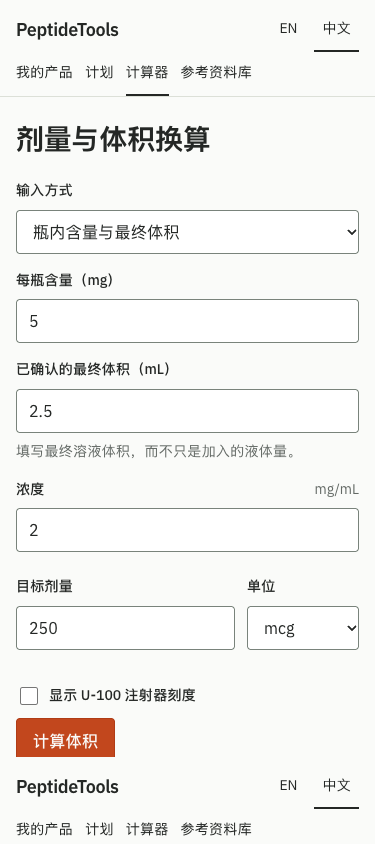
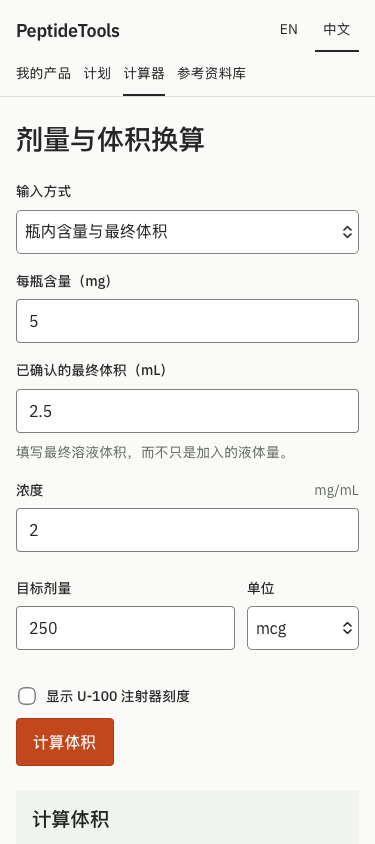
fix: guard tool submissions until scripts are ready

diff --git a/tests/e2e/calculation-workflow.spec.ts b/tests/e2e/calculation-workflow.spec.ts
@@ -143,3 +143,34 @@ test('a revised blend never silently reuses an ingredient index from the old lab
   await expect(page.locator('#calculator-error')).toContainText('Choose the ingredient');
   await page.locator('#calculation-basis').selectOption('0');await page.getByRole('button',{name:'Calculate volume',exact:true}).click();await expect(page.locator('#result-volume')).toHaveText('0.1');
 });
+
+
+test('failed modules cannot submit calculator, label or planner inputs through a native GET', async ({ page }) => {
+  const leakedKeys: string[][] = [];
+  await page.route('**/*', route => {
+    const request = route.request();
+    if (request.resourceType() === 'script') return route.abort();
+    if (request.resourceType() === 'document' && new URL(request.url()).search) { leakedKeys.push([...new URL(request.url()).searchParams.keys()]); return route.abort(); }
+    return route.continue();
+  });
+  for (const [path, field] of [['/calculator', '#dose'], ['/products/new', '#product-name'], ['/planner', '#protocol-name']] as const) {
+    await page.goto(path); await page.locator(field).fill('123');
+    for (const button of await page.locator('form button[type="submit"]').all()) await expect(button).toBeDisabled();
+    await page.locator(field).press('Enter'); await expect(page).toHaveURL(new RegExp(path+'$'));
+  }
+  expect(leakedKeys).toEqual([]);
+});
+
+test('submit stays disabled during module loading, then calculation works with the entered values', async ({ page }) => {
+  let release!: () => void; const gate = new Promise<void>(resolve => release = resolve);
+  await page.route('**/*', async route => { if (route.request().resourceType() === 'script') await gate; await route.continue(); });
+  try {
+    await page.goto('/calculator', { waitUntil: 'commit' });
+    await page.locator('#concentration').fill('2'); await page.locator('#dose').fill('250');
+    await expect(page.getByRole('button', { name: 'Calculate volume', exact: true })).toBeDisabled();
+    await page.locator('#dose').press('Enter'); await expect(page).toHaveURL(/\/calculator$/);
+    release(); await expect(page.locator('#calculator-form')).toHaveAttribute('data-ready', 'true');
+    await page.getByRole('button', { name: 'Calculate volume', exact: true }).click();
+    await expect(page.locator('#result-volume')).toHaveText('0.125');
+  } finally { release(); }
+});

diff --git a/src/scripts/calculator.ts b/src/scripts/calculator.ts
@@ -51,8 +51,7 @@ export function initCalculator() {
       blocked = true; document.querySelector('#calculation-product-name')!.textContent = ui('Product unavailable');
       document.querySelector('#calculation-product-note')!.textContent = uiError(caught);
     }
-    (form.querySelector('button[type="submit"]') as HTMLButtonElement).disabled = blocked;
-  }
+    }
   if (hash.has('calculation') && !saved) { blocked = true; error.textContent = ui('This saved calculation is no longer available. Open the calculator to start again.'); }
   const source = initConcentrationInput('calculator-source', 'calculator-source-vial-amount', 'concentration', !!productId);
   if (saved) {
@@ -64,7 +63,6 @@ export function initCalculator() {
     document.querySelector<HTMLElement>('#calculation-review')!.hidden = !product || product.revision === saved.productRevision;
   } else if (product) name.value = product.name;
   source.sync();
-  (form.querySelector('button[type="submit"]') as HTMLButtonElement).disabled = blocked;
   const draft = takeLanguageDraft();
   if (draft) for (const name of ['concentration', 'dose', 'unit', 'useSyringe', 'capacity', 'increment', 'concentrationMode', 'vialAmount', 'finalVolume']) {
     if (productId && ['concentration', 'concentrationMode', 'vialAmount', 'finalVolume'].includes(name)) continue;
@@ -180,4 +178,7 @@ export function initCalculator() {
   });
   name.addEventListener('input', () => { storageStatus.textContent = ''; });
   renderSaved();
+  (form.querySelector('button[type="submit"]') as HTMLButtonElement).disabled = blocked;
+  (document.querySelector('#save-calculation-form button[type="submit"]') as HTMLButtonElement).disabled = false;
+  form.dataset.ready = 'true';
 }

diff --git a/src/scripts/product-entry.ts b/src/scripts/product-entry.ts
@@ -100,7 +100,6 @@ export function initProductEntry() {
   }
   concentrationInput('product-source', 'product-amount', 'product-concentration');
   showType(); showStep(draft?.step === 'label' || (!draft && editing) ? 'label' : 'name');
-  el<HTMLButtonElement>('product-save').disabled = blocked;
   el('product-continue').addEventListener('click', continueToLabel);
   el('product-back').addEventListener('click', () => showStep('name', true));
   el('product-add-component').addEventListener('click', () => { addComponent(); showType(); field('concentrationVerified').checked = false; trackStart('product_entry_start', { operation: editing ? 'update' : 'create' }); components.lastElementChild?.querySelector<HTMLInputElement>('input')?.focus(); });
@@ -143,4 +142,7 @@ export function initProductEntry() {
     leaving = true; el<HTMLButtonElement>('product-save').disabled = true;
     trackThenNavigate('product_saved', { product_type: product.kind, operation: editing ? 'update' : 'create' }, `${localePath('/products', browserLocale())}#product=${encodeURIComponent(product.id)}`);
   });
+  el<HTMLButtonElement>('product-save').disabled = blocked;
+  el<HTMLButtonElement>('product-continue').disabled = false;
+  form.dataset.ready = 'true';
 }

diff --git a/src/styles/app.css b/src/styles/app.css
@@ -12,6 +12,7 @@
 /* Hallmark · reworded "Saved in this browser" to "Saved schedules" · name the saved object rather than repeat its storage location. */
 /* Hallmark · dropped "Your data" · backup and restore controls already carry explicit action labels. */
 /* Hallmark · finish-review: subagent ship; bad stitched phone evidence recaptured as viewport segments; no actionable defects. Floor 0 FAIL · Reflex 0 · 1 kept-figure warning (facts retained in disclosures). */
+/* Hallmark · round-one functional finish-review: subagent fix · 1 P1 resolved with SSR-disabled submissions and delayed/failed-module Enter tests; phone evidence recaptured in fresh WebKit. */
 @import './tokens.css';
 @import './base.css';
 

diff --git a/src/scripts/planner.ts b/src/scripts/planner.ts
@@ -295,4 +295,7 @@ export function initPlanner() {
   el('print-calendar').addEventListener('click', () => { if (current) { rows(events.length); track('print_requested'); window.print(); } });
   window.addEventListener('beforeprint', () => { if (current) rows(events.length); });
   window.addEventListener('afterprint', () => { if (current) rows(shown); });
+  (form.querySelector('button[type="submit"]') as HTMLButtonElement).disabled = false;
+  el<HTMLButtonElement>('save-protocol').disabled = false;
+  form.dataset.ready = 'true';
 }

diff --git a/qa/label-workflow-validation.md b/qa/label-workflow-validation.md
@@ -11,6 +11,7 @@ The owner approved a first round that joins label inputs to calculation, saves r
 - Save and reuse: successful calculations can be named and saved locally. Reopening restores inputs, never an automatically successful calculation. Linked product revisions require explicit review; revised blends additionally clear the old ingredient index. Repeated saves update one record. Missing/deleted products do not silently become standalone calculations.
 - Data: product and planner backup controls share one implementation. A file is size/schema checked, then counts and optional record names are previewed. Cancel does not replace anything. Apply still asks for confirmation, validates again and only then replaces the envelope. The open planner form stays unchanged.
 - Backup state: last download-request time and a local digest show whether records changed since the request. No statement claims the file was actually saved. Invalid metadata cannot prevent an otherwise valid export. Clearing all records also clears the optional metadata.
+- Tool submit buttons render disabled and become enabled only after their handlers are initialized. Script delays/failures and Enter cannot fall back to native GET submission of private inputs.
 - English/Chinese source inputs and unsaved calculation name survive language switching. Native pickers, file selection, focus styles, mobile date/time containment, print/ICS behavior, source links and consent gating remain.
 
 ## UX / DX / AX
@@ -34,11 +35,12 @@ A rollback to PR #12 cannot read version 3. It should reject those records witho
 |---|---|
 | Astro check | 58 files; 0 errors, warnings or hints |
 | Unit tests | 35 passed, including repeating/tiny decimal cases, verification, v1/v2/v3 compatibility, atomic failed mutations and analytics filtering |
-| Chrome / mobile WebKit | 80 passed; includes the original workflows and new source mode, reopen, changed product/blend, preview/cancel/restore, corrupted metadata and simulated-tag save/reuse checks |
+| Chrome / mobile WebKit | 84 passed; includes the original workflows and new source mode, reopen, changed product/blend, preview/cancel/restore, corrupted metadata, simulated-tag save/reuse checks, and delayed/failed-script native-submit guards |
 | Build / static verification | 50 pages; local links/assets/metadata; 44 sitemap URLs |
 | Responsive workflow | 14 EN/ZH cases at 320, 375, 390, 430, 768, 1280 and 1920px; no horizontal overflow or out-of-viewport visible controls |
 | Hallmark app-scope rendered check | 25 captures across five routes; 0 FAIL / 0 REFLEX / 0 WARN; existing long-action-label heuristic dismissals remain documented |
-| Screenshot review | Real calculated/saved states and restore preview inspected; static preview, no dev overlay, fictitious local data |
+| Independent finish review | `fix`, one P1 initialization issue resolved; delayed/failed-module and Enter checks passed in both browsers; no other actionable visual/data defect |
+| Screenshot review | Real calculated/saved states and restore preview inspected; bad resized-Chrome phone capture replaced with a fresh fixed-viewport WebKit capture; static preview, no dev overlay, fictitious local data |
 
 Existing restore tests were updated to click the newly required preview confirmation; they continue asserting the stored data and invalid-import preservation. New tests exercise meaningful data and workflow boundaries rather than snapshotting implementation details. Physical iPhone Safari and actual GA4 reception are not implied by WebKit or mocked-tag tests.
 
